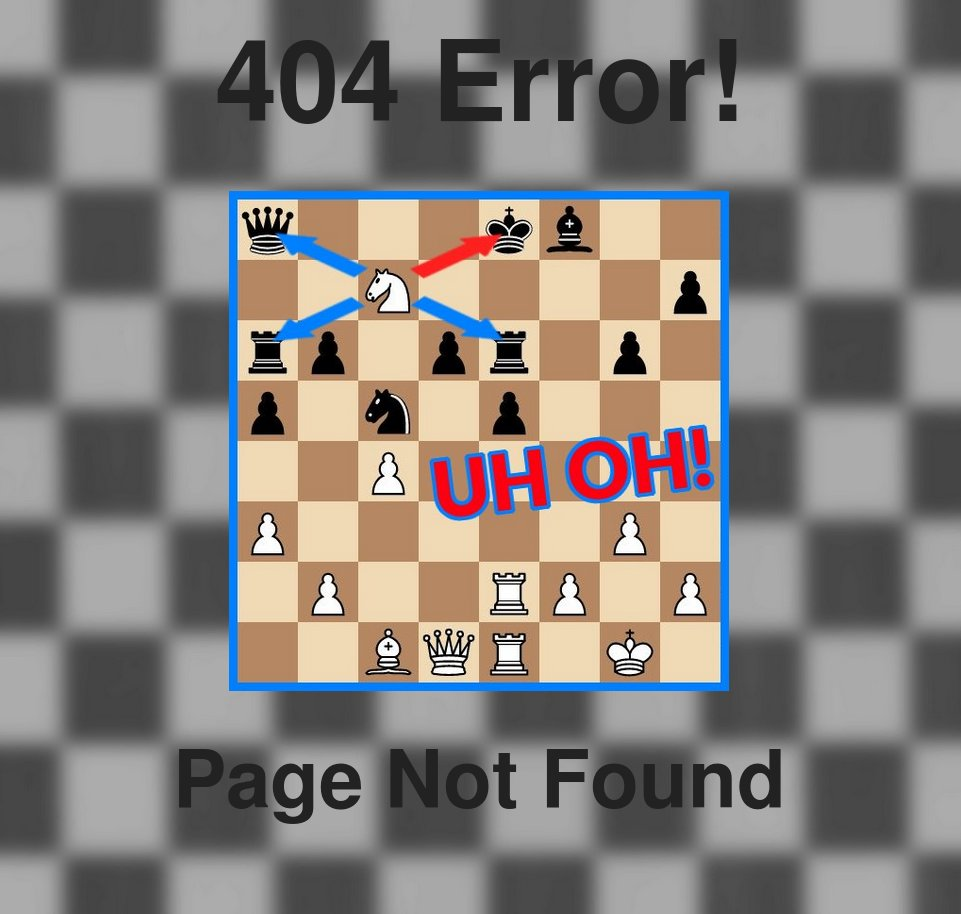
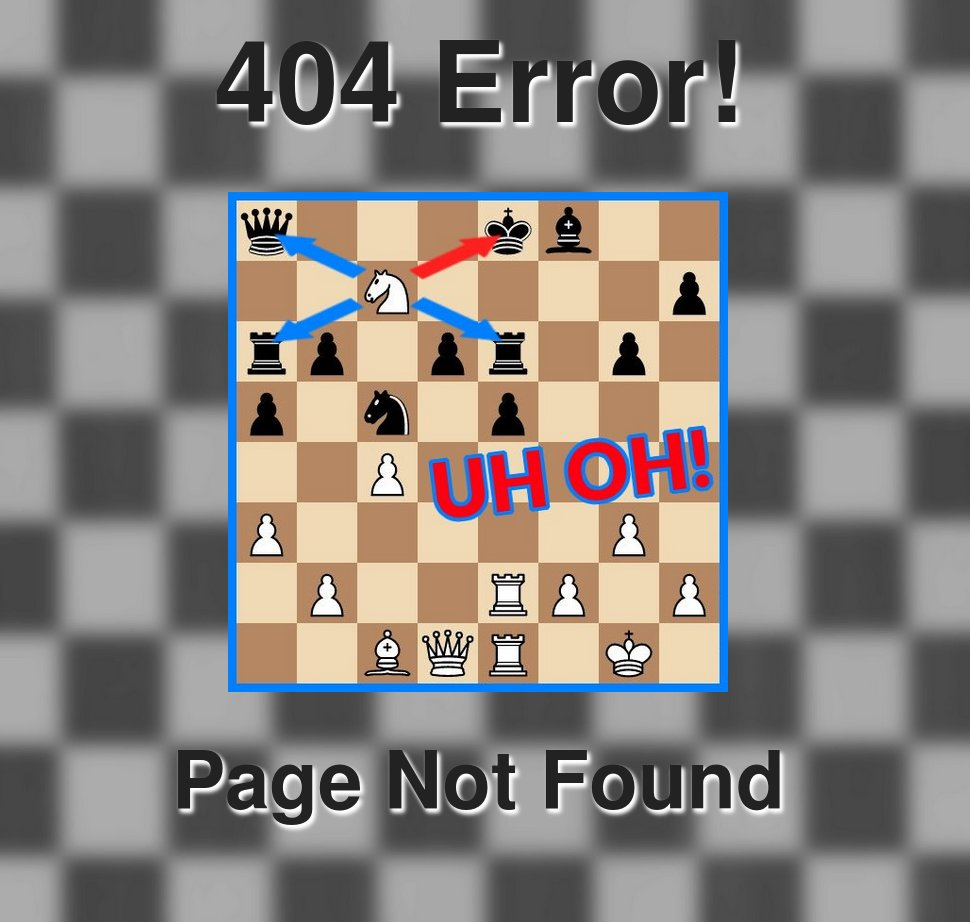
Added text shadow
Added text shadow to get the dark text to pop out of the grey
background a bit more.

diff --git a/css/style.css b/css/style.css
@@ -545,9 +545,9 @@ my-email::before {
   .error-sub-text { font-size: 4rem; }
 }
 @media only screen and (min-width: 650px) {
-  .error-text { font-size: 7rem; }
+  .error-text { font-size: 7rem; /*! color: #fff; */text-shadow: 2px 3px 3px #FFF, 3px 4px 4px #FFF;}
 
-  .error-sub-text { font-size: 5rem; }
+  .error-sub-text { font-size: 5rem; /*! color: #FFFFFF; */text-shadow: 2px 3px 3px #FFF, 3px 4px 4px #FFF;}
 
   .error { max-height: 850px; }
 }
